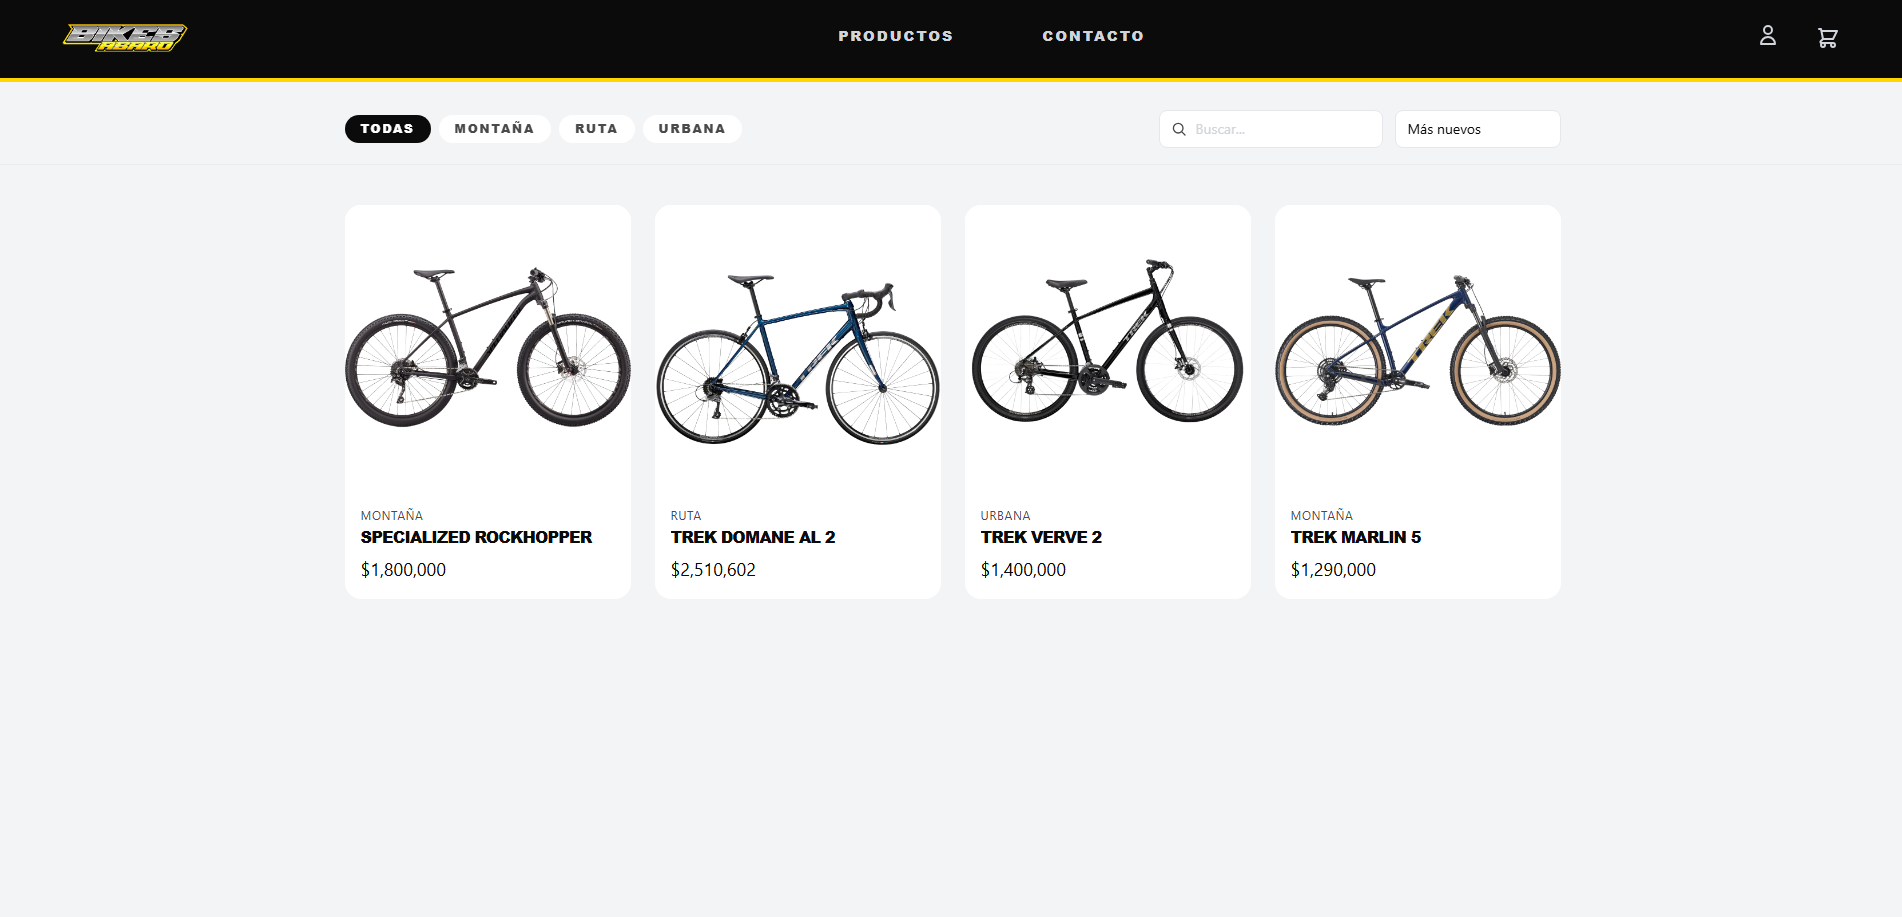
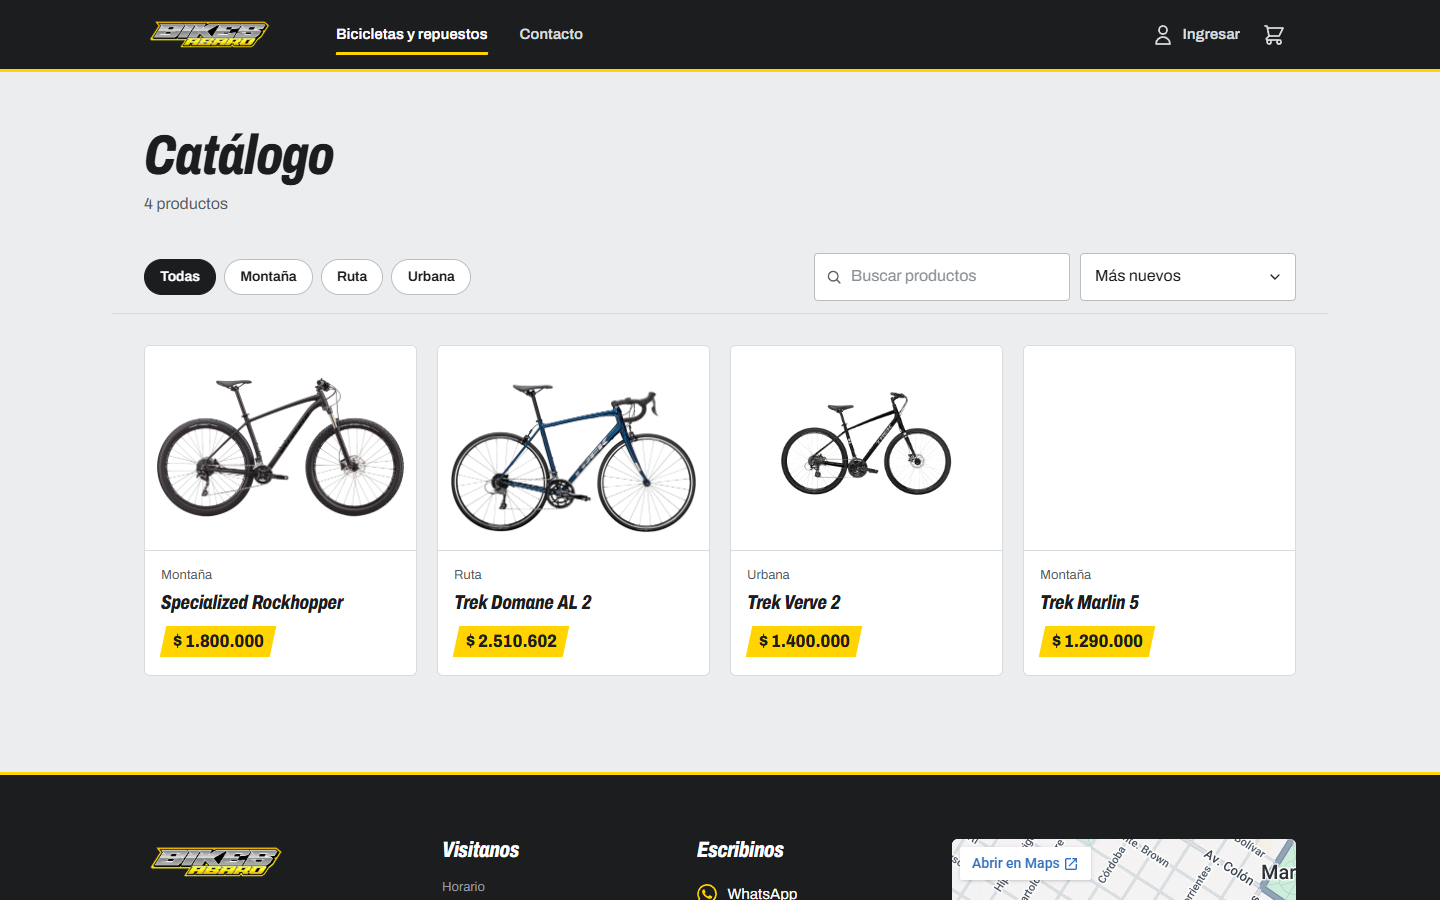
Lazy-load ONNX runtime, refresh README screenshots and docs
- Move onnxruntime-web config from main.ts into the product form so the
  ~390 kB runtime only loads when an admin processes an image.
  Initial bundle: 842 kB -> 444 kB (211 kB -> 120 kB transferred).
- Move account dropdown styles to the shared layer; header CSS is back
  under the component style budget.
- Retake README screenshots for the new design and add contact, sign-in
  and mobile views; document the design system.

diff --git a/src/styles.css b/src/styles.css
@@ -1081,4 +1081,77 @@ textarea.form-input {
 .admin h2 {
   font-size: clamp(1.75rem, 3vw, 2.25rem);
 }
+
+/* ── Account dropdown (header) ── */
+
+.account-menu {
+  position: absolute;
+  top: calc(100% + 3px);
+  right: 0;
+  min-width: var(--account-menu-width);
+  display: grid;
+  gap: 0.125rem;
+  padding: 0.4rem;
+  background: var(--surface);
+  border: 1px solid var(--line);
+  border-top: 0;
+  border-radius: 0 0 6px 6px;
+  box-shadow: 0 16px 32px rgba(27, 29, 31, 0.18);
+  opacity: 0;
+  visibility: hidden;
+  pointer-events: none;
+  transform: translateY(-4px);
+  transition:
+    opacity 140ms ease,
+    transform 160ms ease,
+    visibility 0ms linear 160ms;
+  z-index: 30;
+}
+
+.account-menu--open {
+  opacity: 1;
+  visibility: visible;
+  pointer-events: auto;
+  transform: translateY(0);
+  transition:
+    opacity 140ms ease,
+    transform 160ms ease,
+    visibility 0ms linear 0ms;
+}
+
+.account-menu-header {
+  padding: 0.5rem 0.7rem 0.55rem;
+  margin-bottom: 0.2rem;
+  font-size: 0.8125rem;
+  color: var(--muted);
+  border-bottom: 1px solid var(--line);
+  white-space: nowrap;
+  overflow: hidden;
+  text-overflow: ellipsis;
+  max-width: 16rem;
+}
+
+.account-menu-item {
+  display: block;
+  width: 100%;
+  padding: 0.6rem 0.7rem;
+  border: 0;
+  border-radius: 4px;
+  background: transparent;
+  color: var(--ink);
+  font-size: 0.9375rem;
+  font-weight: 500;
+  text-align: left;
+  text-decoration: none;
+  cursor: pointer;
+  transition: background-color 120ms ease;
+}
+
+.account-menu-item:hover,
+.account-menu-item:focus-visible {
+  background: var(--surface-sunk);
+  outline: none;
+  box-shadow: inset 3px 0 0 var(--yellow);
+}
+
 }

diff --git a/src/app/layout/header/header.component.css b/src/app/layout/header/header.component.css
@@ -200,76 +200,6 @@
   }
 }
 
-.account-menu {
-  position: absolute;
-  top: calc(100% + 3px);
-  right: 0;
-  min-width: var(--account-menu-width);
-  display: grid;
-  gap: 0.125rem;
-  padding: 0.4rem;
-  background: var(--surface);
-  border: 1px solid var(--line);
-  border-top: 0;
-  border-radius: 0 0 6px 6px;
-  box-shadow: 0 16px 32px rgba(27, 29, 31, 0.18);
-  opacity: 0;
-  visibility: hidden;
-  pointer-events: none;
-  transform: translateY(-4px);
-  transition:
-    opacity 140ms ease,
-    transform 160ms ease,
-    visibility 0ms linear 160ms;
-  z-index: 30;
-}
-
-.account-menu--open {
-  opacity: 1;
-  visibility: visible;
-  pointer-events: auto;
-  transform: translateY(0);
-  transition:
-    opacity 140ms ease,
-    transform 160ms ease,
-    visibility 0ms linear 0ms;
-}
-
-.account-menu-header {
-  padding: 0.5rem 0.7rem 0.55rem;
-  margin-bottom: 0.2rem;
-  font-size: 0.8125rem;
-  color: var(--muted);
-  border-bottom: 1px solid var(--line);
-  white-space: nowrap;
-  overflow: hidden;
-  text-overflow: ellipsis;
-  max-width: 16rem;
-}
-
-.account-menu-item {
-  display: block;
-  width: 100%;
-  padding: 0.6rem 0.7rem;
-  border: 0;
-  border-radius: 4px;
-  background: transparent;
-  color: var(--ink);
-  font-size: 0.9375rem;
-  font-weight: 500;
-  text-align: left;
-  text-decoration: none;
-  cursor: pointer;
-  transition: background-color 120ms ease;
-}
-
-.account-menu-item:hover,
-.account-menu-item:focus-visible {
-  background: var(--surface-sunk);
-  outline: none;
-  box-shadow: inset 3px 0 0 var(--yellow);
-}
-
 /* ── Mobile menu ── */
 
 .mobile-menu-wrap {

diff --git a/src/app/features/admin/components/products/product-form.component.ts b/src/app/features/admin/components/products/product-form.component.ts
@@ -117,6 +117,9 @@ export class ProductFormComponent implements OnInit {
     let processedFile: File;
     try {
       this.removingBackground.set(true);
+      // Loaded on demand so the ~390 kB ONNX runtime stays out of the storefront bundle.
+      const { env } = await import('onnxruntime-web');
+      env.wasm.wasmPaths = '/models/';
       const { removeBackground } = await import('@imgly/background-removal');
 
       const rawResultBlob = await removeBackground(file, {

diff --git a/src/main.ts b/src/main.ts
@@ -1,10 +1,5 @@
 import { bootstrapApplication } from '@angular/platform-browser';
 import { appConfig } from './app/app.config';
 import { App } from './app/app';
-import { env } from 'onnxruntime-web';
-
-if (typeof window !== 'undefined') {
-  env.wasm.wasmPaths = '/models/';
-}
 
 bootstrapApplication(App, appConfig).catch((err) => console.error(err));

diff --git a/README.md b/README.md
@@ -30,12 +30,37 @@ Angular client for **Bikes Asaro**, a full-stack e-commerce platform focused on 
     </td>
   </tr>
   <tr>
-    <td colspan="2" align="center">
+    <td align="center">
+      <strong>Contact</strong><br />
+      <img src="public/assets/images/Bikes-asaro-contact.png" alt="Bikes Asaro contact page" width="100%" />
+    </td>
+    <td align="center">
+      <strong>Sign In</strong><br />
+      <img src="public/assets/images/Bikes-asaro-login.png" alt="Bikes Asaro sign in page" width="100%" />
+    </td>
+  </tr>
+  <tr>
+    <td align="center">
       <strong>Admin Dashboard</strong><br />
       <img src="public/assets/images/Bikes-asaro-admin-dashboard.png" alt="Bikes Asaro admin dashboard" width="100%" />
     </td>
+    <td align="center">
+      <strong>Mobile</strong><br />
+      <img src="public/assets/images/Bikes-asaro-mobile.png" alt="Bikes Asaro home page on mobile" width="45%" />
+    </td>
   </tr>
 </table>
+
+## Design System
+
+The storefront has its own visual identity, taken from the physical shop in Mar del Plata:
+
+- **Palette:** concrete-grey canvas (the shop floor), graphite ink, and the facade's signal yellow used as a surface rather than a glow. The mural's red is reserved for out-of-stock and destructive actions.
+- **Typography:** a single variable family, [Archivo](https://fonts.google.com/specimen/Archivo). Headings use a condensed italic cut that echoes the slanted logo; body text uses the regular width.
+- **Signature device:** primary buttons and price tags are slanted yellow parallelograms, matching the logo's forward lean. It is the one bold element; everything else stays quiet.
+- **Implementation:** design tokens live as CSS custom properties in `src/styles.css`, mirrored as `brand-*` colors in `tailwind.config.js`. Shared building blocks (`.btn`, `.field`, `.chip`, `.panel`, `.notice`, `.product-card`, `.price-tag`, `.skeleton`) sit in `@layer components`, so Tailwind utilities can still override them.
+- **Accessibility:** visible keyboard focus, a skip link, labelled form controls, AA contrast for text and links, keyboard-operable rating input, and `prefers-reduced-motion` support.
+- **Locale:** prices and dates use the `es-AR` locale (`$ 1.800.000`).
 
 ## Key Features & AI Integration
 
@@ -43,7 +68,7 @@ Angular client for **Bikes Asaro**, a full-stack e-commerce platform focused on 
 - **Checkout workflow:** integrated purchase flow with store pickup or shipping, shipping quote estimation, payment handoff, and order tracking.
 - **Administrative workspace:** protected admin area for managing products, categories, users, and orders.
 - **Customer account flows:** registration, login, email verification, password recovery, profile management, and order history.
-- **AI-powered image cropping:** product image preparation uses **WebAssembly** through **ONNX Runtime Web** and `@imgly/background-removal` to run image-processing models directly in the browser. This enables client-side background removal before upload, reducing backend processing and improving the admin media workflow.
+- **AI-powered image cropping:** product image preparation uses **WebAssembly** through **ONNX Runtime Web** and `@imgly/background-removal` to run image-processing models directly in the browser. This enables client-side background removal before upload, reducing backend processing and improving the admin media workflow. Both libraries are loaded on demand from the product form, so they never reach the storefront's initial bundle.
 
 ## Security & Authentication
 
@@ -60,7 +85,7 @@ The Angular client is tightly integrated with the backend security model exposed
 
 - **Language & framework:** **TypeScript** + **Angular 20**
 - **UI architecture:** standalone components, lazy-loaded feature routes, client hydration, and view transitions
-- **Styling:** CSS with **Tailwind CSS 4**
+- **Styling:** CSS with **Tailwind CSS 4** plus a small component layer (see [Design System](#design-system))
 - **Reactive layer:** **RxJS**
 - **AI in the browser:** **ONNX Runtime Web** + `@imgly/background-removal`
 - **Commerce integrations:** Mercado Pago checkout flow and shipping quote support
